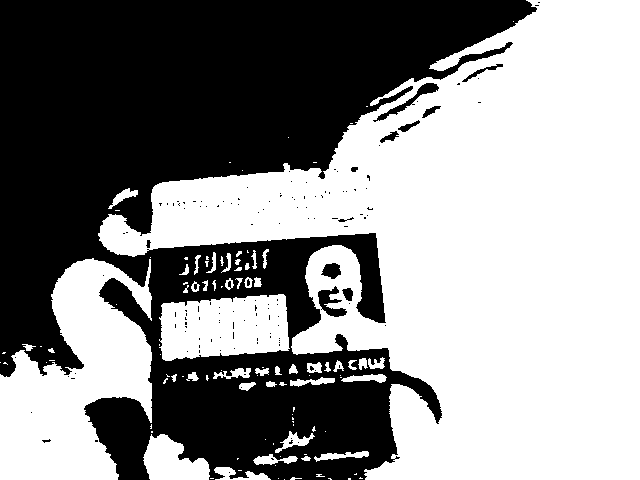
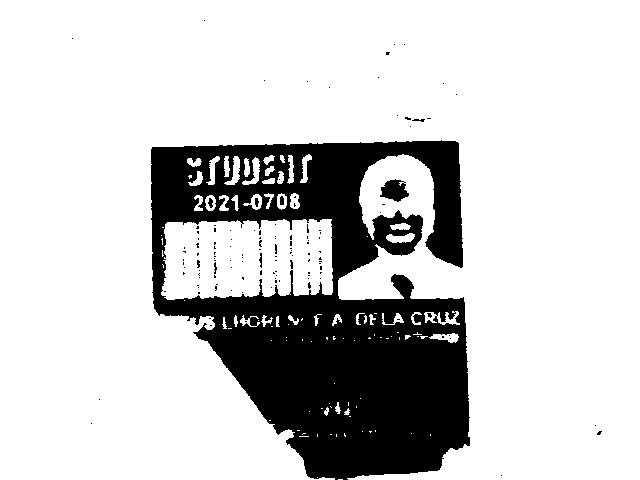
Improved realtime OCR image to text detection and added sqlite3 for the logging

diff --git a/Student ID Detector.py b/Student ID Detector.py
@@ -1,44 +1,20 @@
-import multiprocessing
+
 import numpy as np
 import cv2
-import tensorflow.keras as tf
-import pyttsx3
+import tensorflow.keras as tf # type: ignore
 import os
 import pytesseract
-from PIL import ImageGrab, Image
 import re
+import sqlite3
+from tkinter import *
+from PIL import Image, ImageTk
 
 # pip install tensorflow
 
 pytesseract.pytesseract.tesseract_cmd = r"C:\Program Files\Tesseract-OCR\tesseract.exe"
 DIR_PATH = os.path.dirname(os.path.realpath(__file__))
 
-# this process is purely for text-to-speech so it doesn't hang processor
-def speak(speakQ, ):
-    # initialize text-to-speech object
-    engine = pyttsx3.init()
-    # can adjust volume if you'd like
-    volume = engine.getProperty('volume')
-    engine.setProperty('volume', volume)  # add number here
-    # initialize last_msg to be empty
-    last_msg = ""
-    # keeps program running forever until ctrl+c or window is closed
-    while True:
-        msg = speakQ.get()
-        # clear out msg queue to get most recent msg
-        while not speakQ.empty():
-            msg = speakQ.get()
-        # if most recent msg is different from previous msg
-        # and if it's not "Background"
-        if msg != last_msg and msg != "Background":
-            last_msg = msg
-            # text-to-speech say class name from labels.txt
-            engine.say(msg)
-            engine.runAndWait()
-        if msg == "Background":
-            last_msg = ""
-
-
+conn = sqlite3.connect("logging.db")
 
 def main():
 
@@ -79,18 +55,11 @@ def main():
     # enable auto gain
     cap.set(cv2.CAP_PROP_GAIN, 0)
 
-    # creating a queue to share data to speech process
-    speakQ = multiprocessing.Queue()
-
-    # creating speech process to not hang processor
-    p1 = multiprocessing.Process(target=speak, args=(speakQ, ), daemon="True")
-
-    # starting process 1 - speech
-    p1.start()
+ 
 
     # keeps program running forever until ctrl+c or window is closed
     while True:
-
+        
         # disable scientific notation for clarity
         np.set_printoptions(suppress=True)
 
@@ -113,6 +82,12 @@ def main():
         dilation = cv2.dilate(thresh1, rect_kernel, iterations = 1)
         contours, hierarchy = cv2.findContours(dilation, cv2.RETR_EXTERNAL, 
                                                  cv2.CHAIN_APPROX_NONE)
+        d = pytesseract.image_to_data(frame, output_type=pytesseract.Output.DICT)
+        n_boxes = len(d['text'])
+        for i in range(n_boxes):
+            if int(d['conf'][i]) > 0:
+                (x, y, w, h) = (d['left'][i], d['top'][i], d['width'][i], d['height'][i])
+                frame = cv2.rectangle(frame, (x, y), (x + w, y + h), (0, 255, 0), 2)
 
         # turn the image into a numpy array
         image_array = np.asarray(model_img)
@@ -128,8 +103,6 @@ def main():
         conf_threshold = 90
         confidence = []
         conf_label = ""
-        threshold_class = ""
-        
         # for each one of the classes
         for i in range(0, len(classes)):
             # scale prediction confidence to %
@@ -137,38 +110,23 @@ def main():
             # append classes and confidences to text for label
             conf_label += classes[i] + ": " + str(confidence[i]) + "%; "
             print(conf_label)
-            if confidence[0] >= 99:
-                
-                cv2.imwrite("images/c1.png", thresh1)
-
-                text = pytesseract.image_to_string(Image.open("images/c1.png"))
+            if confidence[0] >= conf_threshold:
+            
+                text = pytesseract.image_to_string(thresh1)
                 id_pattern = r"\d{4}-\d{4}"
                 matches = re.findall(id_pattern, text)
 
                 if matches:
-                    
                     print(matches[0])
-                    speakQ.put(matches[0])
-
-
-            
-
+        
             if (i == (len(classes)-1)):
                 conf_label = ""
-            # if above confidence threshold, send to queue
-            if confidence[i] > conf_threshold:
-                speakQ.put(classes[i])
-                threshold_class = classes[i]
     
         
-                
-
-
         # original video feed implementation
-        cv2.imshow("Capturing", frame)
-
+        cv2.imshow("Capturing", thresh1)
         cv2.waitKey(10)
-        
+         
         
         
 
@@ -178,3 +136,5 @@ def main():
 
 if __name__ == '__main__':
     main()
+    
+    
